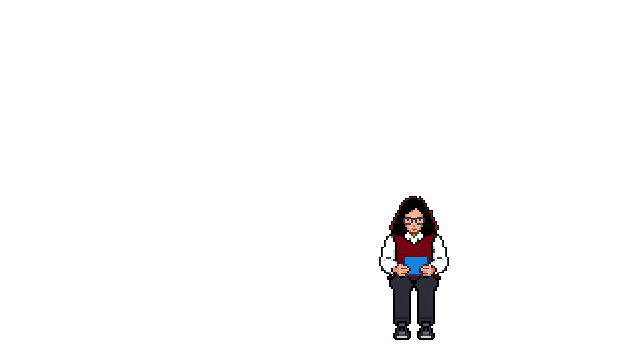
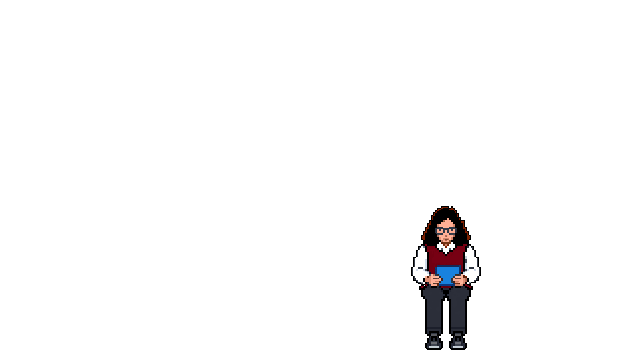
feat: Refait les rangs de bancs du wagon 01 et replace les voyageurs

Changed region(s): [[0.5938, 0.55, 0.75, 0.9778]]

diff --git a/index.html b/index.html
@@ -36,17 +36,26 @@
         <img class="wagon__calque wagon__porte wagon__porte--gauche" src="assets/images/commun/porte-gauche.png" alt="">
         <img class="wagon__calque wagon__porte wagon__porte--droite" src="assets/images/commun/porte-droite.png" alt="">
         <img class="wagon__calque" src="assets/images/wagon-01/interieur.png" alt="Intérieur du wagon, banquettes en bois face à face">
-        <!-- Bancs et personnages du fond vers l'avant : chaque personnage est derrière le banc de son rang -->
+        <!-- Du fond vers l'avant, rang par rang : calque "fond" du banc (dossier, assise), voyageurs, puis calque "avant" (face brune).
+             Les voyageurs qui n'ont que la tête ou le buste sont derrière le banc ; Joaquim est en entier, devant la face avant. -->
+        <img class="wagon__calque" src="assets/images/wagon-01/banc-d4-fond.png" alt="">
+        <img class="wagon__calque" src="assets/images/wagon-01/banc-d4.png" alt="">
+        <img class="wagon__calque" src="assets/images/wagon-01/banc-g4-fond.png" alt="">
+        <img class="wagon__calque" src="assets/images/wagon-01/banc-g4.png" alt="">
+        <img class="wagon__calque" src="assets/images/wagon-01/banc-d3-fond.png" alt="">
         <img class="wagon__calque" src="assets/images/wagon-01/banc-d3.png" alt="">
+        <img class="wagon__calque" src="assets/images/wagon-01/banc-g3-fond.png" alt="">
         <img class="wagon__calque" src="assets/images/wagon-01/banc-g3.png" alt="">
-        <img class="wagon__calque wagon__personnage" src="assets/images/wagon-01/personnage-01.png" alt="Vieux monsieur assis de dos" data-nom="Margot" data-pensee="Lorem ipsum dolor sit amet, consectetur adipiscing elit.">
-        <!-- Jules est enfoncé derrière le banc pour ne laisser dépasser que sa tête -->
-        <img class="wagon__calque wagon__personnage" src="assets/images/wagon-01/personnage-03.png" alt="Voyageuse aux cheveux violets, assise de face" data-nom="Jules" data-pensee="Sed do eiusmod tempor incididunt ut labore.">
+        <img class="wagon__calque wagon__personnage" src="assets/images/wagon-01/personnage-01.png" alt="Vieux monsieur assis de face" data-nom="Margot" data-pensee="Lorem ipsum dolor sit amet, consectetur adipiscing elit.">
+        <img class="wagon__calque" src="assets/images/wagon-01/banc-d2-fond.png" alt="">
         <img class="wagon__calque" src="assets/images/wagon-01/banc-d2.png" alt="">
+        <img class="wagon__calque" src="assets/images/wagon-01/banc-g2-fond.png" alt="">
         <img class="wagon__calque" src="assets/images/wagon-01/banc-g2.png" alt="">
-        <img class="wagon__calque wagon__personnage" src="assets/images/wagon-01/personnage-04.png" alt="Voyageur assis de dos" data-nom="Paul" data-pensee="Duis aute irure dolor in reprehenderit.">
-        <img class="wagon__calque wagon__personnage" src="assets/images/wagon-01/personnage-02.png" alt="Joaquim, assis sur la banquette, un livre bleu sur les genoux" data-nom="Joaquim" data-pensee="Ut enim ad minim veniam, quis nostrud.">
+        <img class="wagon__calque" src="assets/images/wagon-01/banc-d1-fond.png" alt="">
         <img class="wagon__calque" src="assets/images/wagon-01/banc-d1.png" alt="">
+        <img class="wagon__calque wagon__personnage" src="assets/images/wagon-01/personnage-02.png" alt="Joaquim, assis sur la banquette, un livre bleu sur les genoux" data-nom="Joaquim" data-pensee="Ut enim ad minim veniam, quis nostrud.">
+        <img class="wagon__calque wagon__personnage" src="assets/images/wagon-01/personnage-04.png" alt="Voyageur assis de dos" data-nom="Paul" data-pensee="Duis aute irure dolor in reprehenderit.">
+        <img class="wagon__calque" src="assets/images/wagon-01/banc-g1-fond.png" alt="">
         <img class="wagon__calque" src="assets/images/wagon-01/banc-g1.png" alt="">
       </section>
 
